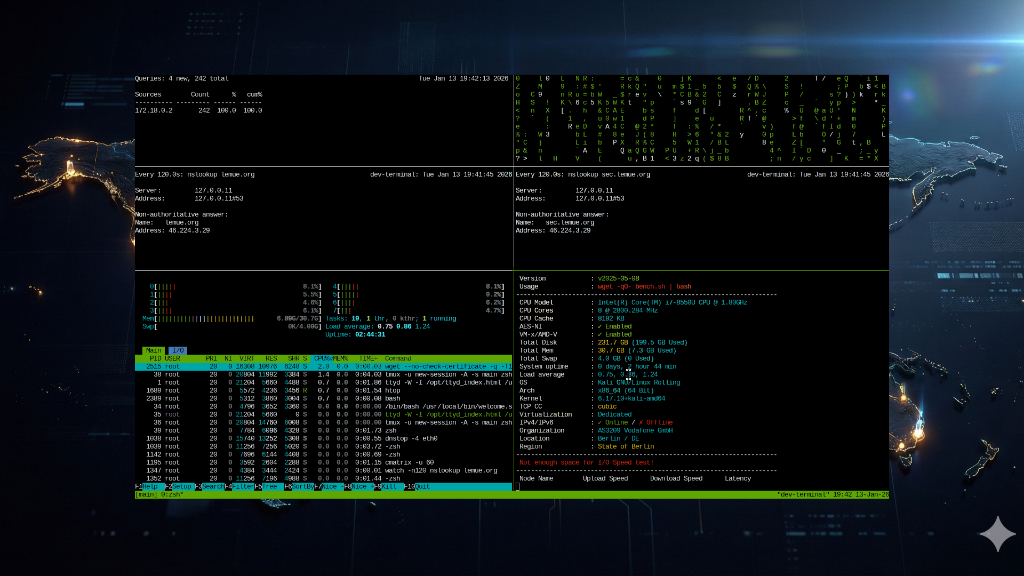
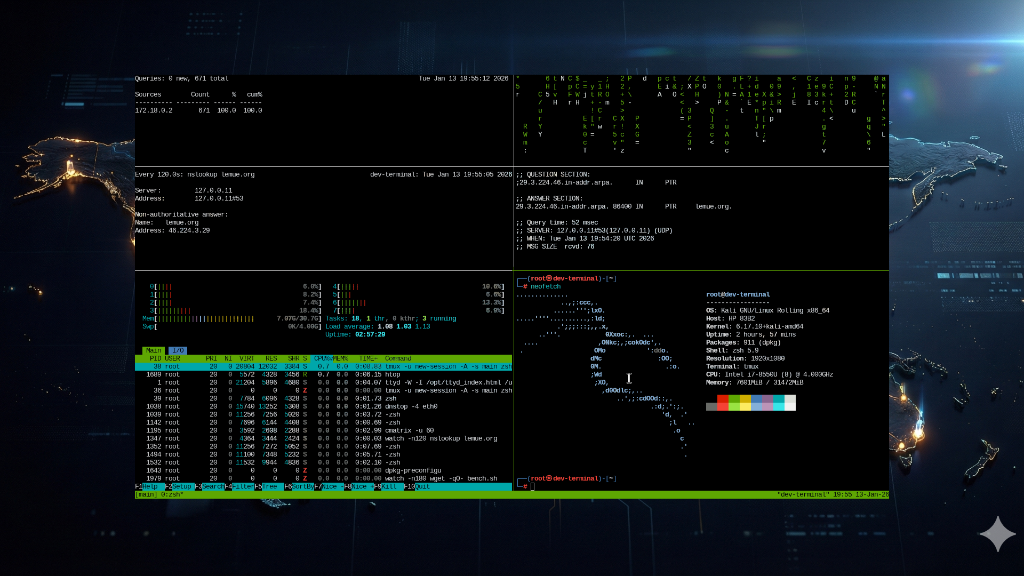
docs: release v1.0.3-alpha with updated screenshot and 80% opacity design

diff --git a/overlay.html b/overlay.html
@@ -28,7 +28,7 @@
     #terminal-container {
         width: 75vw !important;
         height: 75vh !important;
-        background: rgba(0, 0, 0, 0.75) !important;
+        background: rgba(0, 0, 0, 0.80) !important;
         backdrop-filter: blur(10px) !important;
         -webkit-backdrop-filter: blur(10px) !important;
         border: 1px solid rgba(255, 255, 255, 0.15) !important;

diff --git a/README.md b/README.md
@@ -2,7 +2,7 @@
 
 ![Terminal Preview](docs/terminal_preview.png)
 
-# 🟢 **LEMUE // DEV-TERMINAL** `v1.0.2-alpha`
+# 🟢 **LEMUE // DEV-TERMINAL** `v1.0.3-alpha`
 
 ![License](https://img.shields.io/github/license/derlemue/dev-terminal?style=for-the-badge&labelColor=black&color=00ff41)
 ![Docker](https://img.shields.io/badge/docker-ready-black?style=for-the-badge&logo=docker&logoColor=00ff41)
@@ -12,7 +12,7 @@
 **[ SYSTEM_ROOT_ACCESS // ESTABLISHED ]**
 **[ UPLINK // SECURE_TTY_OVER_HTTPS ]**
 
-[ > INITIATE_SEQUENCE ](#-installation) • [ > VIEW_SPECS ](#-features) • [ > SYSTEM_LOGS ](#-changelog)
+[ > INITIATE_SEQUENCE ](#-deployment_protocol) • [ > VIEW_SPECS ](#-feature_set) • [ > SYSTEM_LOGS ](CHANGELOG.md)
 
 </div>
 
@@ -26,10 +26,11 @@ Lemue Dev-Terminal provides a high-fidelity, WebGL-accelerated neural interface 
 ## 💾 FEATURE_SET
 
 - ** > [ SECURE_UPLINK ]**: Code-locked overlay protection. Passkey: `1337`.
-- ** > [ NEURAL_INTERFACE ]**: 75% Transparency Glassmorphism console. Floating viewport.
+- ** > [ NEURAL_INTERFACE ]**: 80% Transparency Glassmorphism console. Floating viewport. (Updated to 80%)
 - ** > [ KERNEL_CORE ]**: Kali Linux Rolling. Pre-loaded: `git`, `vim`, `tmux`, `zsh`, `htop`, `openssh`.
 - ** > [ PERSISTENCE_DRIVE ]**: 512MB OverlayFS storage mounting `/usr`, `/root`, `/opt`. Tools survive reboot.
 - ** > [ ZERO_LATENCY ]**: WebGL acceleration via Xterm.js.
+- ** > [ SSH_ACCESS ]**: Port 22 exposed.
 
 ## 🔌 DEPLOYMENT_PROTOCOL
 

diff --git a/CHANGELOG.md b/CHANGELOG.md
@@ -2,6 +2,13 @@
 
 All notable changes to this project will be documented in this file.
 
+## [1.0.3-alpha] - 2026-01-13
+### 🚀 [ MATRIX_EVOLUTION // CONSOLIDATED ]
+- ** > [ NEURAL_VISUALS ]**: Opacity calibrated to **80%** with glass-blur reinforced.
+- ** > [ TRUE_TRANSPARENCY ]**: `ttyd` source patched to render fully transparent background, eliminating the black void.
+- ** > [ SSH_UPLINK ]**: Port `22` Exposed for remote shell access.
+- ** > [ DOCUMENTATION ]**: Updated Screenshots and Manual.
+
 ## [1.0.2-alpha] - 2026-01-13
 ### 🚀 [ MATRIX_EVOLUTION // INVISIBLE_CONTAINER ]
 - ** > [ NULL_CONTAINER ]**: Container box rendered invisible (`background: transparent`, `border: none`).
